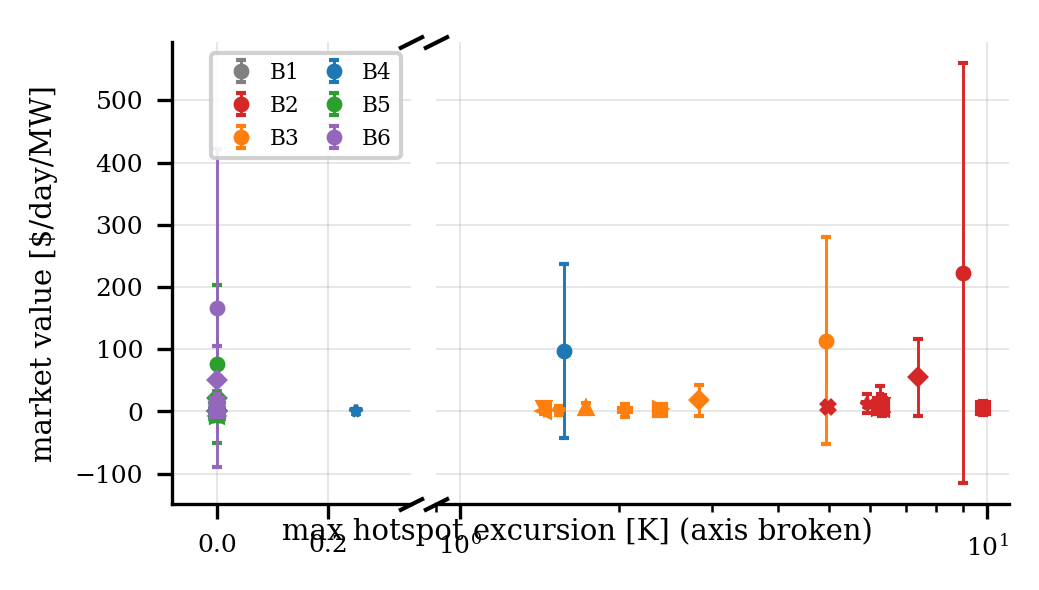
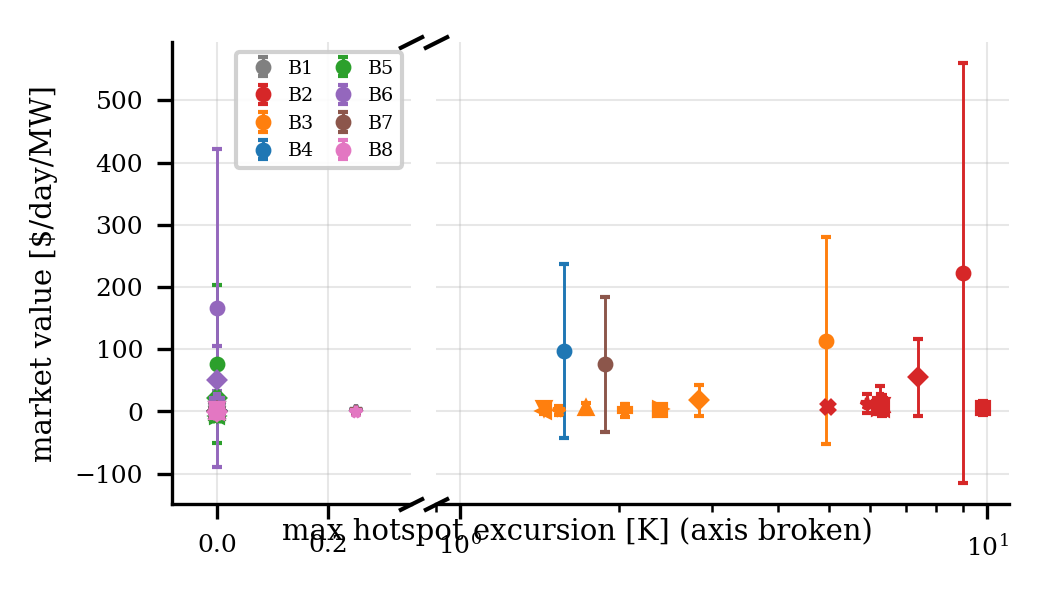
paper v9: full logic + data verification round resolved
- logic (7): portfolio fig regenerated incl B7/B8 (caption B1-B8); B5/B6
  MV-decomposition + wear-convention footnote; fit-block/ECRS first-use;
  limits (iii) covers B7-B8; forward-ref wording
- data (230+/240 exact, 3 MED prose fixed): failed-starts median 7.0K;
  product-sweep -18% full sweep; beyond-domain 5 exogenous / 5 participation;
  ablation cell 38; parbox corruption repaired line-level
- builds clean, 0 undefined, 12 pp; 51/51 tests

diff --git a/paper/sections/experiments.tex b/paper/sections/experiments.tex
@@ -165,7 +165,9 @@ for B4. $^{\ddagger}$Degradation cost relative to Idle: negative means
 participation \emph{reduces} hotspot wear (the pre-cooled hours run colder
 than the nominal point). $^{\S}$Warm starts: activated obligations beginning
 at the envelope boundary (\S\ref{subsec:cert}); zero for participants
-without thermal events.}
+without thermal events. B5/B6 market value nets charging-energy and
+quality-of-service costs not itemized in these columns; their hall wear
+stays at Idle ($\Delta$Wear $0$ by convention).}
 \vspace{-5mm}
 \end{table*}
 
@@ -321,7 +323,7 @@ without re-deriving the risk case week by week.
 \centering
 \includegraphics[width=\columnwidth]{../results/phase6/F2_portfolio_jobaware_eps03.pdf}
 \caption{Weekly market value vs.\ maximum hotspot excursion over ten weeks
-$\times$ $20$ seeds (colors: participants B1--B6; markers: weeks; bars:
+$\times$ $20$ seeds (colors: participants B1--B8; markers: weeks; bars:
 $\pm 1\sigma$ over seeds; x-axis broken between the violation-free and
 violating clusters).}
 \label{fig:portfolio}
@@ -370,8 +372,9 @@ routinely: $100$ of $122$ obligations).
 
 \emph{Safety clause.} Across $1{,}400$ day-seeds, no violation episode
 starts in an in-domain hour with a certified start: zero such episodes,
-matching clause (i) on its stated domain. The ten beyond-domain episodes
-are bounded by $1.6$\,K.
+matching clause (i) on its stated domain. The ten beyond-domain episodes are bounded by $1.6$\,K; five of them are
+the exogenous workload-tail days shared with Idle, leaving five tied to
+market participation.
 
 \emph{Delivery clause and premise accounting.} Of $122$ activated
 obligations at the design point, $24$ fell short ($19.7\%$, within the
@@ -383,12 +386,13 @@ obligations, overlapping): \textbf{zero certified starts failed} ($0$ of
 $22$ cold; exact $95\%$ Clopper--Pearson upper bound $15.4\%$), which is
 exactly clause (ii) on its stated premise. All $24$ failures started beyond
 both conditions, displaced by in-hour load swings (median displacement
-$4.1$\,K), and they land inside the priced $\epsd$ budget rather than
+$7.0$\,K among the failures; $4.1$\,K over all obligations), and they land
+inside the priced $\epsd$ budget rather than
 outside the settlement. The offering objective accepts this trade by
 construction, and it is stable in the product parameters: sweeping
 $p_{\mathrm{act}}$ from $0.05$ to $0.30$ and $\gamma$ from $1.5$ to $3$
 moves the scarcity-day commitment smoothly from $1{,}084$ to $866$\,kW and
-its expected value by $-8\%$, with no cliffs (Remark~\ref{rem:market}).
+its expected value by $-18\%$ across the full sweep, with no cliffs (Remark~\ref{rem:market}).
 Table~\ref{tab:frontier} reports the $\epsd$ frontier: the conservative
 point certifies less depth and fails less often, the design point monetizes
 more and pays more penalty, and both stay within their stated budgets. The
@@ -494,7 +498,7 @@ they appear with full $20$-seed statistics.}
 \textbf{Nested $(\epss,\epsd)$ (ours)} & $10.6$ & $54$ & $24/122$
 & $\mathbf{0}$ & $10$ ($1.6$) \\
 Single set, $\varepsilon=0.3$  & $15.6$ & $112$ & $10/51$ & $0$ & $18$ ($4.9$) \\
-Single set, $\varepsilon=0.05$ & $8.5$  & $37$  & $5/34$  & $0$ & $7$ ($1.9$) \\
+Single set, $\varepsilon=0.05$ & $8.5$  & $38$  & $5/34$  & $0$ & $7$ ($1.9$) \\
 Context-free nested            & $8.0$  & $40$  & $5/29$  & $0$ & $5$ ($0.7$) \\
 Window-only certification      & $12.3$ & $62$  & $27/33$ & $3$ & $7$ ($2.4$) \\
 \bottomrule
@@ -575,7 +579,7 @@ through a different mechanism. (iii) Metering is at the cooling plant
 against an exogenous baseline (Remark~\ref{rem:baseline}), with the
 frozen-efficiency surrogate and a fixed wet bulb on both the commitment and
 validation sides; a weather-coupled efficiency model changes the energy
-accounting symmetrically across B2--B4 and, with priced pre-cool holding,
+accounting symmetrically across B2--B4 and B7--B8 and, with priced pre-cool holding,
 is the main modeling extension left open. (iv) Beyond the calibrated safety
 set, hardware frequency scaling is the backstop: it engages when $\Tj$
 reaches the throttle threshold and trades compute slowdown for safety for

diff --git a/paper/sections/system_model.tex b/paper/sections/system_model.tex
@@ -82,7 +82,8 @@ below.
 A commanded extraction rate $\uext$ is realized by the supply-temperature
 setpoint $T^{\mathrm{in}} = \Tw - \uext/(\mdot c_p)$ at the operating flow,
 and a rejection rate $\urej$ by the chiller load setpoint. The set
-\eqref{eq:Ux} is the image of the physical actuator ranges under this map,
+\eqref{eq:Ux} below is the image of the physical actuator ranges under this
+map,
 so every certified virtual command corresponds to an admissible setpoint
 pair; the actuators' bilinear flow--temperature coupling never enters the
 commitment problem (cf.~\cite{shen2026cdro}).
@@ -229,8 +230,8 @@ $r_h=0$). The market interval is $\dH = 1$\,h.
 The product is a \emph{generic short-duration reserve abstraction} and the
 only institutional element in the model. It does not claim to replicate any
 specific ERCOT service: qualification, telemetry, and performance rules of
-ECRS are not modeled; ECRS clearing prices serve as the capacity-price
-stream, and $p_{\mathrm{act}}$ and $\gamma$ are product design parameters
+the ERCOT Contingency Reserve Service (ECRS) are not modeled; ECRS clearing
+prices serve as the capacity-price stream, and $p_{\mathrm{act}}$ and $\gamma$ are product design parameters
 whose sensitivity Section~\ref{subsec:cert} reports. Economic results are
 stated \emph{under this ERCOT-price-driven stylized settlement}, not as
 realized revenues of an enrolled participant.

diff --git a/paper/sections/methodology.tex b/paper/sections/methodology.tex
@@ -177,7 +177,8 @@ calibration~\cite{lei2018distribution} of the three statistics yields a
 with the miscoverage budget $\varepsilon$ allocated across the three faces a
 priori (any allocation summing to $\varepsilon$ is valid by the union
 bound). The amplitude face is calibrated on the upper tail, which dominates
-this trace (negative residuals are verifiably smaller on the fit block); the
+this trace (negative residuals are verifiably smaller on the fit block, the
+design split of Section~\ref{subsec:setup}); the
 energy face is essential, because against bursty traces an amplitude-only
 box is catastrophically conservative, while the budget face credits the fact
 that a burst cannot persist. Coverage,

diff --git a/paper/REVIEW_LOG.md b/paper/REVIEW_LOG.md
@@ -97,3 +97,5 @@ Declined/deferred: robust-MPC/DRO offering as full baselines (the single-set
 Final: 12 phys. pages (~11.4 content) per relaxed budget; suite 51/51.
 
 ## Baseline restructuring (owner, 2026-06-11): B7 single-risk robust + B8 context-free promoted into Table III with full 20-seed/3-block statistics (mainline_b7b8.csv); ablation table kept at 5 rows with cross-reference footnote; B2 = online-MPC-without-envelope mapping and B7 = robust-MPC/DRO-family proxy stated in IV-A; table footnotes moved outside tabular (fixed 761pt natural-width overflow).
+
+## Full-paper verification round (owner, 2026-06-11): two clean-context verifiers. Logic: 7 fixed (portfolio fig regenerated WITH B7/B8; B5/B6 MV footnote; fit-block gloss; ECRS in Remark 2; limits (iii) incl B7-B8; eqref-below). Data: 230+/240 numbers re-derived exactly; 3 MED prose fixes (failed-starts median 7.0K; sweep -18% full; beyond-domain 5+5 split); LOWs (wear convention, ablation 38). 19% figure verified vs jobaware_stats.json. Verdict: claims supported at stated n; certified-start bound CP95<=15.4% stated honestly.